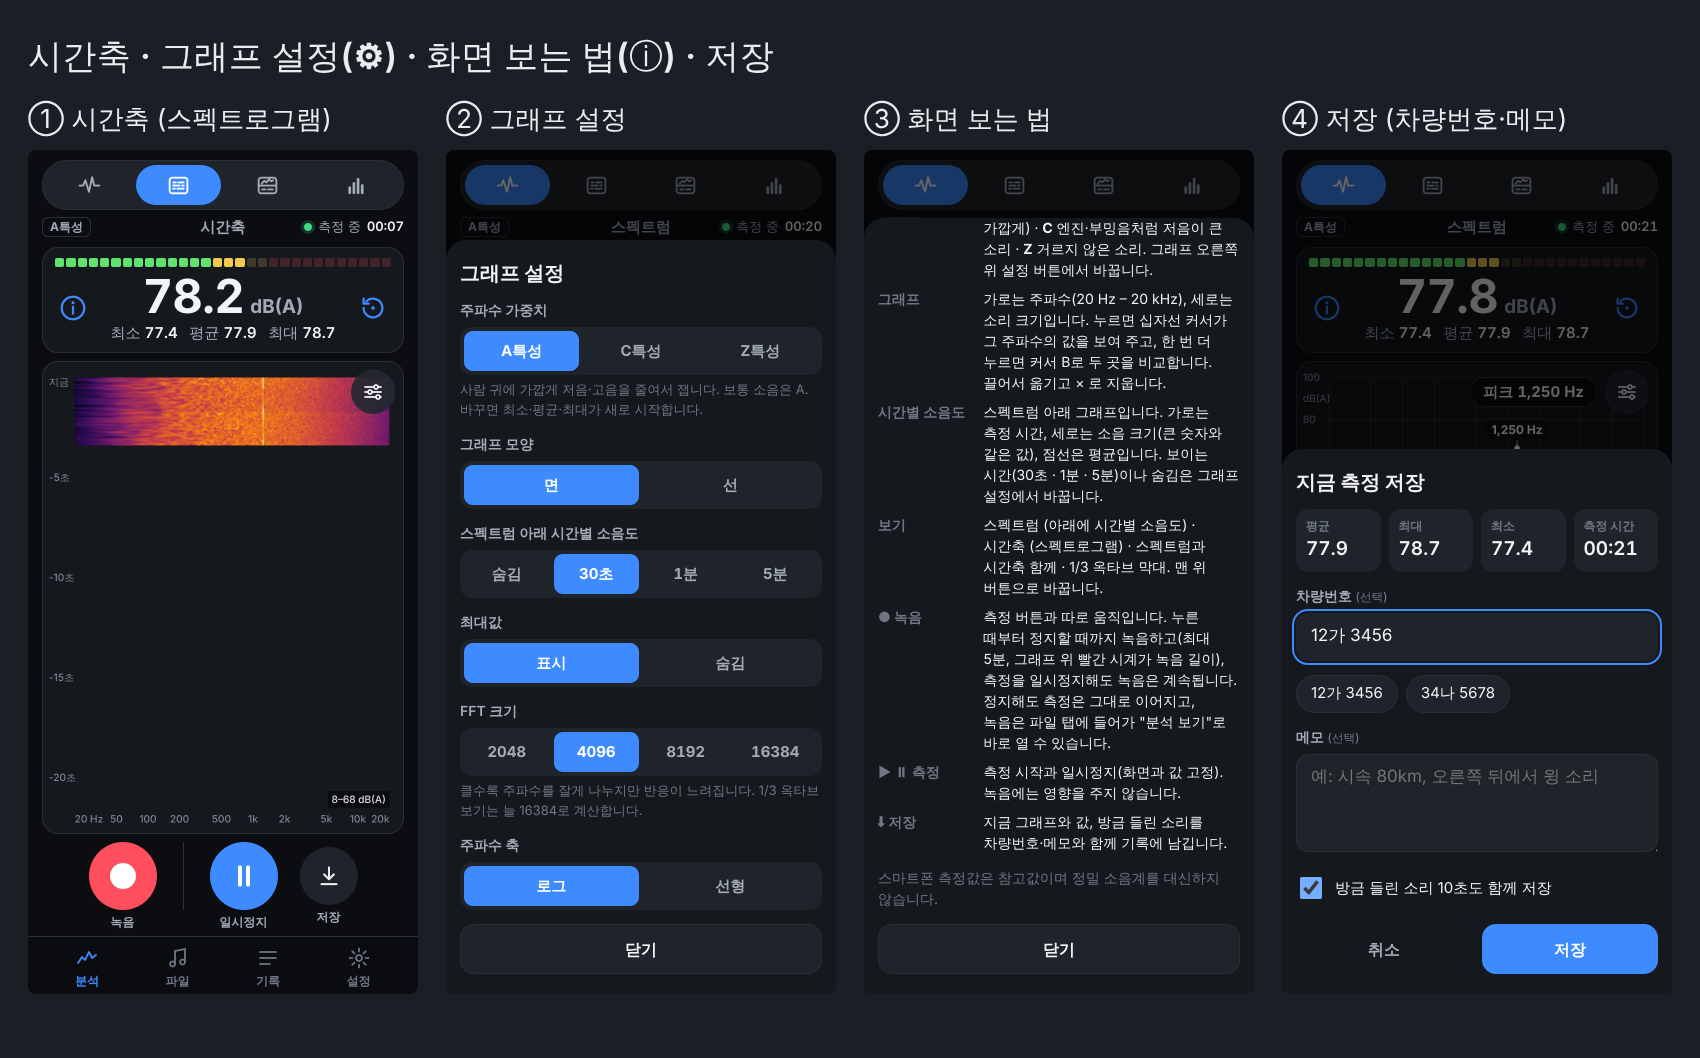
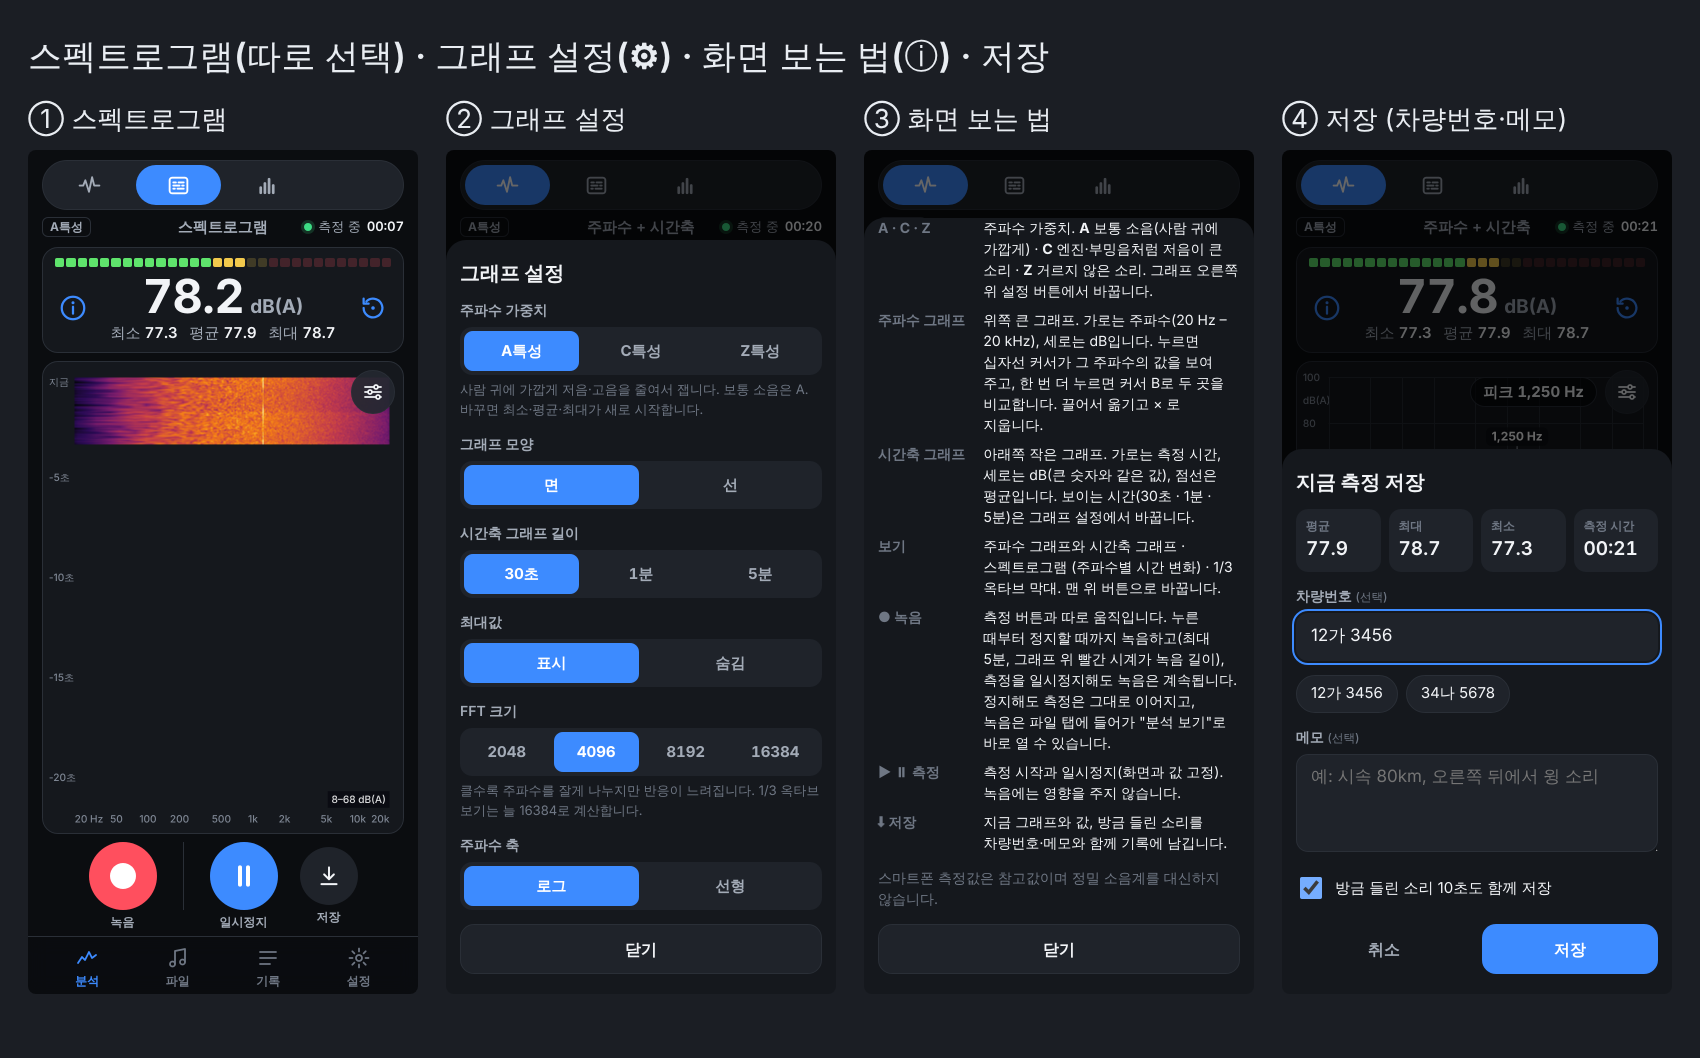
Main view is two graphs: frequency dB above, smaller time-axis dB below
- As the user laid it out: the main view always shows the frequency graph
  (spectrum) on top, about 2/3 of the chart, and the time-axis graph (live dB over
  time) below it, about 1/3, with a divider. The "hidden" option is gone; the
  time-axis length stays 30 s / 1 min / 5 min.
- The spectrogram is only its own view now: the spectrum + spectrogram view is
  removed and the mode bar has three views (주파수 + 시간축, 스펙트로그램,
  1/3 옥타브). A saved "both" view falls back to the main view.
- Naming follows the user's words: "시간축" is the dB-over-time graph, the
  colour map is "스펙트로그램", also on the file and record screens.
- e2e checks the time-axis graph sits below the spectrum and is smaller, and the
  three views. Version 0.7.1.

Claude-Session: https://claude.ai/code/session_019bnsVk5WHx5aXZAwj9JYTg

diff --git a/js/app.js b/js/app.js
@@ -183,9 +183,8 @@ function saveSheet({ title, rec, timeLabel, extra = '' }, beforeSave) {
 /* ---------- real-time analyzer ---------- */
 
 const MODES = [
-  { id: 'spectrum', name: '스펙트럼', label: '스펙트럼 (아래에 시간별 소음도)', icon: svg('<path d="M2.5 12h3.5l2-5 3.5 11 3-14 2 8h5"/>') },
-  { id: 'gram', name: '시간축', label: '시간축 (스펙트로그램)', icon: svg('<rect x="3.5" y="4.5" width="17" height="15" rx="2.5"/><path d="M7 9h2.5M12 9h5M7 12h6M15.5 12h1.5M7 15h1.5M11 15h6"/>') },
-  { id: 'both', name: '함께 보기', label: '스펙트럼과 시간축 함께', icon: svg('<rect x="3.5" y="4.5" width="17" height="15" rx="2.5"/><path d="M3.5 12h17M6.5 10l2.5-2.5 2 1.5 2.5-3 2 2 2-1M7 15.8h3M12.5 15.8h4.5"/>') },
+  { id: 'spectrum', name: '주파수 + 시간축', label: '주파수 그래프와 시간축 그래프', icon: svg('<path d="M2.5 12h3.5l2-5 3.5 11 3-14 2 8h5"/>') },
+  { id: 'gram', name: '스펙트로그램', label: '스펙트로그램 (주파수별 시간 변화)', icon: svg('<rect x="3.5" y="4.5" width="17" height="15" rx="2.5"/><path d="M7 9h2.5M12 9h5M7 12h6M15.5 12h1.5M7 15h1.5M11 15h6"/>') },
   { id: 'octave', name: '1/3 옥타브', label: '1/3 옥타브 막대', icon: svg('<path stroke-width="2.6" d="M5.5 19v-5M9.5 19v-9M13.5 19v-13M17.5 19v-7"/>') },
 ];
 const OCTAVE_FFT = 16384; // 2.9 Hz bins, so even the 25 Hz band has some
@@ -223,8 +222,8 @@ function helpSheet() {
         <dt>큰 숫자</dt><dd>지금 소음 크기입니다 (0.125초 Fast). 색 막대는 초록 → 노랑 → 빨강, 빨강은 경고 기준 ${s.alertLevel} dB 이상입니다. 밝은 칸 하나는 최대값입니다.</dd>
         <dt>최소·평균·최대</dt><dd>측정을 시작하거나 ↻ 초기화를 누른 뒤의 값입니다. 평균은 에너지 평균(Leq)입니다.</dd>
         <dt>A · C · Z</dt><dd>주파수 가중치. <b>A</b> 보통 소음(사람 귀에 가깝게) · <b>C</b> 엔진·부밍음처럼 저음이 큰 소리 · <b>Z</b> 거르지 않은 소리. 그래프 오른쪽 위 설정 버튼에서 바꿉니다.</dd>
-        <dt>그래프</dt><dd>가로는 주파수(20 Hz – 20 kHz), 세로는 소리 크기입니다. 누르면 십자선 커서가 그 주파수의 값을 보여 주고, 한 번 더 누르면 커서 B로 두 곳을 비교합니다. 끌어서 옮기고 × 로 지웁니다.</dd>
-        <dt>시간별 소음도</dt><dd>스펙트럼 아래 그래프입니다. 가로는 측정 시간, 세로는 소음 크기(큰 숫자와 같은 값), 점선은 평균입니다. 보이는 시간(30초 · 1분 · 5분)이나 숨김은 그래프 설정에서 바꿉니다.</dd>
+        <dt>주파수 그래프</dt><dd>위쪽 큰 그래프. 가로는 주파수(20 Hz – 20 kHz), 세로는 dB입니다. 누르면 십자선 커서가 그 주파수의 값을 보여 주고, 한 번 더 누르면 커서 B로 두 곳을 비교합니다. 끌어서 옮기고 × 로 지웁니다.</dd>
+        <dt>시간축 그래프</dt><dd>아래쪽 작은 그래프. 가로는 측정 시간, 세로는 dB(큰 숫자와 같은 값), 점선은 평균입니다. 보이는 시간(30초 · 1분 · 5분)은 그래프 설정에서 바꿉니다.</dd>
         <dt>보기</dt><dd>${MODES.map((m) => m.label).join(' · ')}. 맨 위 버튼으로 바꿉니다.</dd>
         <dt>● 녹음</dt><dd>측정 버튼과 따로 움직입니다. 누른 때부터 정지할 때까지 녹음하고(최대 ${MAX_RECORD_SEC / 60}분, 그래프 위 빨간 시계가 녹음 길이), 측정을 일시정지해도 녹음은 계속됩니다. 정지해도 측정은 그대로 이어지고, 녹음은 파일 탭에 들어가 "분석 보기"로 바로 열 수 있습니다.</dd>
         <dt>▶ ⏸ 측정</dt><dd>측정 시작과 일시정지(화면과 값 고정). 녹음에는 영향을 주지 않습니다.</dd>
@@ -236,7 +235,7 @@ function helpSheet() {
 }
 
 async function renderAnalyzer() {
-  if (!MODES.some((m) => m.id === getSettings().view)) saveSettings({ view: 'spectrum' }); // e.g. the old gauge view
+  if (!MODES.some((m) => m.id === getSettings().view)) saveSettings({ view: 'spectrum' }); // e.g. the old gauge or "both" view
   const s = getSettings();
   view.innerHTML = `
     <section class="analyzer" data-state="off" data-rec="off">
@@ -255,7 +254,7 @@ async function renderAnalyzer() {
         <button type="button" class="round-btn lv-reset" data-act="reset" aria-label="초기화">${ICON.reset}</button>
         <p class="lv-stats"><span>최소 <b id="a-min">–</b></span><span>평균 <b id="a-leq">–</b></span><span>최대 <b id="a-max">–</b></span></p>
       </div>
-      <div class="an-chart" data-view="${s.view}" data-trace="${s.traceSec ? 'on' : 'off'}">
+      <div class="an-chart" data-view="${s.view}">
         <div class="chart-plot" id="a-chart"></div>
         <div class="gram-plot" id="a-gram"></div>
         <div class="octave-plot" id="a-octave"></div>
@@ -296,10 +295,10 @@ async function renderAnalyzer() {
   chart.onCursor = bindCursorReadout($('a-cursor'));
   $('a-cursor').querySelector('.cr-close').onclick = () => chart.clearCursors();
   const gram = new SpectrogramView($('a-gram'));
-  gram.configure({ scale: s.scale, xLabels: s.view === 'gram' });
+  gram.configure({ scale: s.scale });
   gram.unit = unitOf(s.weighting);
   const octave = new OctaveView($('a-octave'));
-  const trace = new LiveTimelineView($('a-trace'), { windowSec: s.traceSec || 30 });
+  const trace = new LiveTimelineView($('a-trace'), { windowSec: s.traceSec || 30 }); // 0 was "hidden" before
   trace.configure({ unit: unitOf(s.weighting) });
   let traced = 0; // measured samples already in the trace
   const led = new LevelBar($('a-led'), s.alertLevel);
@@ -424,7 +423,7 @@ async function renderAnalyzer() {
       traced = meter.stats.n;
       trace.push(db);
       trace.configure({ leq: meter.leq, unit: unit() });
-      if (mode() === 'spectrum' && getSettings().traceSec) trace.draw();
+      if (mode() === 'spectrum') trace.draw();
     }
   }
 
@@ -571,7 +570,6 @@ async function renderAnalyzer() {
     chartBox.dataset.view = id;
     view.querySelectorAll('.mode').forEach((b) => b.setAttribute('aria-pressed', String(b.dataset.mode === id)));
     $('a-mode-name').textContent = MODES.find((m) => m.id === id).name;
-    gram.configure({ xLabels: id === 'gram' });
     applyFft();
     if (meter?.paused && hold) draw(meter.levels);
   }
@@ -583,7 +581,7 @@ async function renderAnalyzer() {
         <h2>그래프 설정</h2>
         ${segRow('weighting', '주파수 가중치', WEIGHTINGS.map((w) => [w, `${w}특성`]), st.weighting, `<span id="f-weight-note">${WEIGHT_NOTE[st.weighting]}</span> 바꾸면 최소·평균·최대가 새로 시작합니다.`)}
         ${segRow('style', '그래프 모양', [['fill', '면'], ['line', '선']], st.style)}
-        ${segRow('trace', '스펙트럼 아래 시간별 소음도', [[0, '숨김'], [30, '30초'], [60, '1분'], [300, '5분']], st.traceSec)}
+        ${segRow('trace', '시간축 그래프 길이', [[30, '30초'], [60, '1분'], [300, '5분']], st.traceSec || 30)}
         ${segRow('hold', '최대값', [['on', '표시'], ['off', '숨김']], st.hold ? 'on' : 'off')}
         ${segRow('fft', 'FFT 크기', FFT_SIZES.map((n) => [n, n]), st.fftSize, '클수록 주파수를 잘게 나누지만 반응이 느려집니다. 1/3 옥타브 보기는 늘 16384로 계산합니다.')}
         ${segRow('scale', '주파수 축', [['log', '로그'], ['linear', '선형']], st.scale)}
@@ -600,10 +598,8 @@ async function renderAnalyzer() {
         clearReadings();
       } else if (key === 'style') saveSettings({ style: v });
       else if (key === 'trace') {
-        const sec = Number(v);
-        saveSettings({ traceSec: sec });
-        chartBox.dataset.trace = sec ? 'on' : 'off';
-        if (sec) trace.configure({ windowSec: sec });
+        saveSettings({ traceSec: Number(v) });
+        trace.configure({ windowSec: Number(v) });
         trace.draw();
       }
       else if (key === 'hold') saveSettings({ hold: v === 'on' });
@@ -764,11 +760,11 @@ async function renderFile() {
           <div><span>최소</span><b>${fmtDb(a.lmin)}</b><small>${unit}</small></div>
         </section>
         <section class="card">
-          <h2>시간축 <small>누르면 그 시점부터 재생</small></h2>
+          <h2>스펙트로그램 <small>누르면 그 시점부터 재생</small></h2>
           <div class="gram-box-rec"><div class="gram-plot" id="fa-gram"></div></div>
         </section>
         <section class="card">
-          <h2>시간별 소음도 <small>누르면 그 시점으로 이동</small></h2>
+          <h2>시간축 그래프 <small>누르면 그 시점으로 이동</small></h2>
           <div class="timeline-box"><div class="gram-plot" id="fa-time"></div></div>
         </section>
         <section class="card">
@@ -1001,7 +997,7 @@ async function renderRecord(id) {
               <audio controls preload="metadata" id="rec-audio"></audio>
               <div class="gram-box-rec"><div class="gram-plot" id="rec-gram"></div><p class="gram-wait" id="rec-gram-wait">소리 분석 중…</p></div>
               <div class="timeline-box"><div class="gram-plot" id="rec-time"></div></div>
-              <p class="fine">${fromFile ? '시간축 그래프는 아래가 처음, 위가 끝입니다.' : '시간축 그래프: 맨 위가 저장한 순간, 아래로 갈수록 그 전 소리입니다.'} 그래프를 누르면 그 시점부터 들을 수 있습니다.</p>
+              <p class="fine">${fromFile ? '스펙트로그램은 아래가 처음, 위가 끝입니다.' : '스펙트로그램: 맨 위가 저장한 순간, 아래로 갈수록 그 전 소리입니다.'} 아래 시간축 그래프는 시간별 dB입니다. 그래프를 누르면 그 시점부터 들을 수 있습니다.</p>
               <button type="button" class="btn btn-wide" data-act="share-audio">소리 파일 보내기</button>
             </section>`
           : ''}

diff --git a/css/app.css b/css/app.css
@@ -282,7 +282,7 @@ body[data-view="home"] main { flex: 1 1 auto; min-height: 0; display: flex; padd
     column-gap: 14px;
     row-gap: 6px;
   }
-  .an-modes { align-self: center; justify-self: center; width: min(100%, 340px); padding: 3px; }
+  .an-modes { align-self: center; justify-self: center; width: min(100%, 250px); padding: 3px; }
   .mode { height: 38px; }
   .mode svg { width: 23px; height: 23px; }
   /* the status line sits in the top row of the floating level panel */
@@ -518,16 +518,14 @@ body[data-view="home"] .toast { bottom: calc(var(--tabbar-h) + 112px + env(safe-
 
 /* ---------- spectrogram, cursors, sound ---------- */
 
-.an-chart:not([data-view="spectrum"]):not([data-view="both"]) .chart-plot,
-.an-chart:not([data-view="gram"]):not([data-view="both"]) .gram-plot,
+.an-chart:not([data-view="spectrum"]) .chart-plot,
+.an-chart:not([data-view="gram"]) .gram-plot,
 .an-chart:not([data-view="octave"]) .octave-plot,
-.an-chart:not([data-view="spectrum"]) .trace-plot,
-.an-chart[data-trace="off"] .trace-plot { display: none; }
-/* spectrum with the level trace under it */
-.an-chart[data-view="spectrum"][data-trace="on"] .chart-plot { bottom: 39%; }
-.an-chart[data-view="spectrum"][data-trace="on"] .trace-plot { top: 62%; }
-.an-chart[data-view="both"] .chart-plot { bottom: 47%; }
-.an-chart[data-view="both"] .gram-plot { top: 55%; }
+.an-chart:not([data-view="spectrum"]) .trace-plot { display: none; }
+/* two graphs: frequency dB on top (about 2/3), the smaller time-axis dB below, a line between */
+.an-chart[data-view="spectrum"] .chart-plot { bottom: 34%; }
+.an-chart[data-view="spectrum"] .trace-plot { top: 67%; }
+.an-chart[data-view="spectrum"]::after { content: ""; position: absolute; left: 0; right: 0; top: 66.3%; border-top: 1px solid var(--line); pointer-events: none; }
 .an-chart[data-view="gram"] .an-peak { display: none; }
 .an-chart .chart-plot, .chart-box-rec .chart-plot { touch-action: none; cursor: crosshair; }
 .chart-box-rec .chart-plot { touch-action: pan-y; }
@@ -551,14 +549,7 @@ body[data-view="home"] .toast { bottom: calc(var(--tabbar-h) + 112px + env(safe-
   font-variant-numeric: tabular-nums;
   pointer-events: none;
 }
-.an-chart[data-view="both"] .cursor-readout { bottom: calc(47% + 28px); }
-.an-chart[data-view="spectrum"][data-trace="on"] .cursor-readout { bottom: calc(39% + 28px); }
-/* landscape: a lower trace leaves the spectrum more room under the level panel */
-@media (orientation: landscape) and (min-width: 600px) {
-  .an-chart[data-view="spectrum"][data-trace="on"] .chart-plot { bottom: 34%; }
-  .an-chart[data-view="spectrum"][data-trace="on"] .trace-plot { top: 67%; }
-  .an-chart[data-view="spectrum"][data-trace="on"] .cursor-readout { bottom: calc(34% + 28px); }
-}
+.an-chart[data-view="spectrum"] .cursor-readout { bottom: calc(34% + 28px); }
 .an-chart:is([data-view="gram"], [data-view="octave"]) .cursor-readout { display: none; }
 .cr-lines { display: flex; flex-wrap: wrap; gap: 0 12px; min-width: 0; }
 .cr-lines span { white-space: nowrap; }

diff --git a/js/timeline.js b/js/timeline.js
@@ -1,6 +1,6 @@
 // Level over time. TimelineView: a whole recording, the Fast level every 0.1 s, its Leq as a dashed
-// line and the playback position; tap or drag to seek. LiveTimelineView: the live Fast level over the
-// last 30 s – 5 min of measuring, newest at the right, under the spectrum.
+// line and the playback position; tap or drag to seek. LiveTimelineView: the analyzer's time-axis graph,
+// the live Fast level over the last 30 s – 5 min of measuring, newest at the right, under the spectrum.
 
 import { SPECTRUM_COLORS } from './spectrum.js';
 import { fmtClock } from './format.js';
@@ -172,7 +172,7 @@ export class LiveTimelineView {
     this.canvas = document.createElement('canvas');
     this.canvas.className = 'spectrum-canvas';
     this.canvas.setAttribute('role', 'img');
-    this.canvas.setAttribute('aria-label', '시간별 소음도 그래프 (가로: 측정 시간, 세로: dB)');
+    this.canvas.setAttribute('aria-label', '시간축 그래프 (가로: 측정 시간, 세로: dB)');
     host.prepend(this.canvas);
     this.g = this.canvas.getContext('2d');
     this.ro = new ResizeObserver(() => this.resize());
@@ -267,7 +267,7 @@ export class LiveTimelineView {
     }
     g.textAlign = 'left';
     g.fillStyle = c.axis;
-    g.fillText(`시간별 소음도 · ${this.windowSec < 60 ? `${this.windowSec}초` : `${this.windowSec / 60}분`}`, box.x0 + 6 * k, box.yTop + 12 * k);
+    g.fillText(`시간축 ${this.stats.unit} · 최근 ${this.windowSec < 60 ? `${this.windowSec}초` : `${this.windowSec / 60}분`}`, box.x0 + 6 * k, box.yTop + 12 * k);
 
     if (to - from >= 2) {
       const t0 = (this.first + from + 1) * step;

diff --git a/js/settings.js b/js/settings.js
@@ -1,6 +1,6 @@
 // Per-device settings (kept in localStorage).
 
-export const APP_VERSION = '0.7.0';
+export const APP_VERSION = '0.7.1';
 
 const KEY = 'noise-meter:settings:v1';
 
@@ -9,8 +9,8 @@ const DEFAULTS = {
   vehicle: '',
   recentVehicles: [],
   // analyzer display
-  view: 'spectrum', // 'spectrum' (with the level trace below) | 'gram' (spectrogram) | 'both' | 'octave' (1/3-octave bars)
-  traceSec: 30, // seconds of level history under the spectrum; 0 = hidden
+  view: 'spectrum', // 'spectrum' (frequency graph + time-axis graph below) | 'gram' (spectrogram) | 'octave' (1/3-octave bars)
+  traceSec: 30, // seconds shown in the time-axis graph: 30 | 60 | 300
   weighting: 'A', // frequency weighting 'A' | 'C' | 'Z', for levels and spectrum alike
   style: 'fill', // 'fill' | 'line'
   fftSize: 4096,

diff --git a/sw.js b/sw.js
@@ -1,6 +1,6 @@
 // Offline support: the app shell is cached so measuring works without signal.
 // Bump VERSION whenever any cached file changes so phones pick up the update.
-const VERSION = 'v0.7.0';
+const VERSION = 'v0.7.1';
 const CACHE = `noise-meter-${VERSION}`;
 const FILES = [
   './',

diff --git a/CLAUDE.md b/CLAUDE.md
@@ -4,7 +4,7 @@ This file provides guidance to Claude Code (and other AI assistants) when workin
 
 ## Project Overview
 
-A company-internal real-time noise analyzer web app (PWA) for field use, referencing common analyzer apps but with its own features. It opens on a live FFT spectrum (x: 20 Hz – 20 kHz, y: weighted dB per bin, A by default) under a level panel (LED bar, big current value, min / average / max, help and reset buttons), in portrait and landscape layouts. A mode bar switches between spectrum (with a live level-over-time trace under it), spectrogram (time axis), both and 1/3-octave bars (the needle gauge was dropped at the user's request); a graph-settings sheet sets A/C/Z weighting, fill/line, the trace (hidden / 30 s / 1 min / 5 min), max hold, FFT size and axis. Own features: crosshair A/B cursors, a red record button kept separate from start/pause (record until stop; the recording goes to the file analysis, opened from a toast), attached-file analysis, and "save" that keeps the last N seconds of sound (rolling buffer) with the snapshot for playback and WAV sharing. Snapshots also carry vehicle number and memo, share as image + text, and export as CSV. There is no report feature (the user asked to drop it). UI text is Korean.
+A company-internal real-time noise analyzer web app (PWA) for field use, referencing common analyzer apps but with its own features. It opens on a live FFT spectrum (x: 20 Hz – 20 kHz, y: weighted dB per bin, A by default) under a level panel (LED bar, big current value, min / average / max, help and reset buttons), in portrait and landscape layouts. The main view is two graphs, as the user specified: the frequency graph (spectrum) on top and a smaller time-axis graph (live level over time) below; the spectrogram and 1/3-octave bars are separate views in the mode bar (the needle gauge and a spectrum + spectrogram view were dropped at the user's request). A graph-settings sheet sets A/C/Z weighting, fill/line, the time-axis length (30 s / 1 min / 5 min), max hold, FFT size and axis. Own features: crosshair A/B cursors, a red record button kept separate from start/pause (record until stop; the recording goes to the file analysis, opened from a toast), attached-file analysis, and "save" that keeps the last N seconds of sound (rolling buffer) with the snapshot for playback and WAV sharing. Snapshots also carry vehicle number and memo, share as image + text, and export as CSV. There is no report feature (the user asked to drop it). UI text is Korean.
 
 - **Language / runtime:** Vanilla JavaScript ES modules in the browser; Node 22 for tests
 - **Framework(s):** None. Web Audio (AudioWorklet + AnalyserNode), Canvas, IndexedDB, Service Worker
@@ -50,7 +50,7 @@ No build step. After changing any cached file, bump `VERSION` in `sw.js` (and ad
 - **Measurement chain:** levels come from the worklet (every sample), never from analyser frames. dB SPL = dBFS + per-device `offset` (calibration). The first 0.5 s after start/reset/weighting change is discarded. Calibration always measures with A weighting.
 - **Weighting:** `settings.weighting` ('A' | 'C' | 'Z') applies to the worklet filter, the per-bin spectrum table and file/record analysis alike; units come from `unitOf()` (dB(A), dB(C), dB(Z), dBFS(A) ...). Records store `weighting` and `unit`; old records without them are A.
 - **Spectrum values:** per-bin dB = analyser dB + 10·log10(2/Blackman power) + W(f) + offset, so bins sum to the overall level. Peak labels come from a ~1 s averaged spectrum (steady), not the raw frame. 1/3-octave bands are energy sums of those bins; the octave view runs the analyser at 16384 so every band has bins.
-- **Layouts:** portrait = mode bar, sub row (weighting, mode name, status), level panel, chart (fills spare height, peak pill + settings button top right), round buttons with captions in two groups (record | start/pause, save); in spectrum view the level trace takes the lower ~38% of the chart (~33% in landscape) unless hidden; landscape (>= 600px wide) = chart full screen with the level panel (status in its top row) floating top left, and one bottom row of buttons, mode bar and nav; the tab bar hides on the analyzer in landscape.
+- **Layouts:** portrait = mode bar, sub row (weighting, mode name, status), level panel, chart (fills spare height, peak pill + settings button top right), round buttons with captions in two groups (record | start/pause, save); in the main view the time-axis graph always takes the lower third of the chart, below a divider; landscape (>= 600px wide) = chart full screen with the level panel (status in its top row) floating top left, and one bottom row of buttons, mode bar and nav; the tab bar hides on the analyzer in landscape.
 - **Level trace:** pushed from `onLevel` only when the meter's measured sample count grows (not while warming up or paused), one value per 50 ms worklet block; time labels are measuring time; cleared on reset/weighting change.
 - **Recording is separate from measuring (start/pause):** the record button never resumes a paused measurement (it only starts the mic if it is off), pausing does not stop the worklet's recording (only the display and the "save" ring buffer hold still), and stopping keeps measuring on the analyzer. Raw PCM from the worklet, at most 5 min (`MAX_RECORD_SEC`, the file analysis limit); on stop it becomes a WAV `File` in `openedFile` and a toast offers "분석 보기" (#/file). Leaving the screen mid-recording keeps what was recorded there. The recording has its own clock (`#a-rec-time` in the red badge on the chart); the status clock always shows measuring time.
 - **Frequency axis** is always 20 Hz – 20 kHz (log) / 0 – 20 kHz (linear); the spectrogram uses the same plotBox so columns line up with the spectrum.
